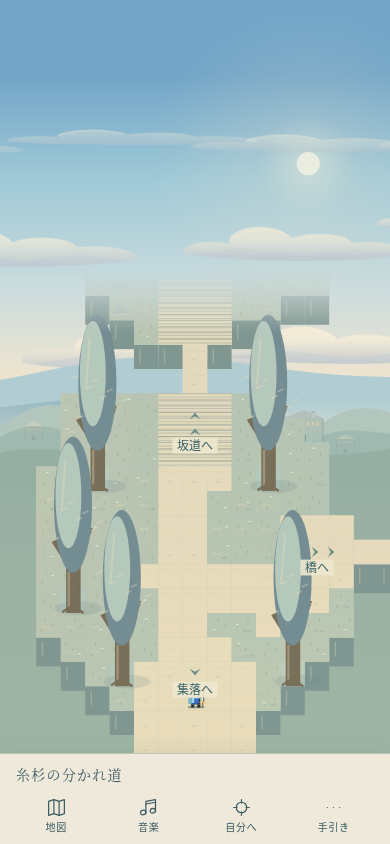
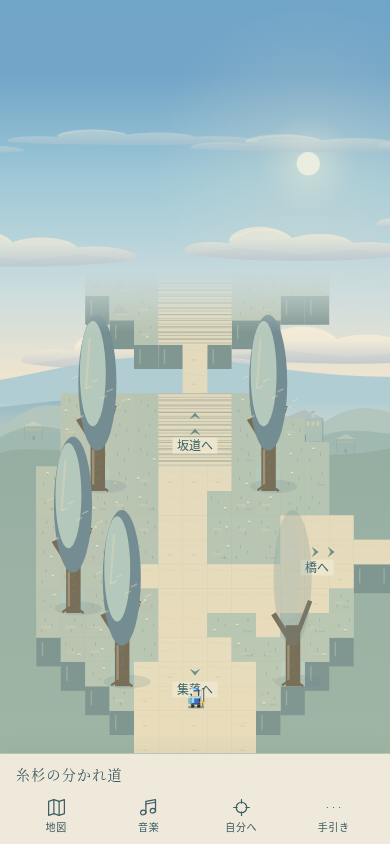
fix: 路面案内は人物の下に描き、到着後の見やすさを検査する

Changed region(s): [[0.7077, 0.5853, 0.8, 0.7701], [0.6769, 0.6777, 0.7077, 0.7085], [0.4923, 0.8009, 0.5231, 0.8318]]

diff --git a/fixed-screen-art.js b/fixed-screen-art.js
@@ -5,7 +5,7 @@ import {drawLandscapeFeet,drawLandscapeCanopies} from './landscape-objects.js';
 import {drawRegionalGroundDetail} from './regional-detail.js';
 import {drawSrpgUnit} from './sprite-srpg.js';
 import {drawVillager} from './sprite-villager.js';
-import {fixedLayout,fixedExitMarker} from './fixed-screens.js';
+import {fixedLayout,fixedExitMarker,FIXED_ROOMS} from './fixed-screens.js';
 
 export const FIXED_SOURCE=WEST_STUDIES.find(z=>z.key==='village');
 const P=(c,p,col)=>{c.fillStyle=col;c.beginPath();p.forEach(([x,y],i)=>i?c.lineTo(x,y):c.moveTo(x,y));c.closePath();c.fill();};
@@ -47,7 +47,7 @@ function background(c,room,w,h,layout,time){
  // The distant valley remains separate from the connected walking ground.
  const mist=c.createLinearGradient(0,horizon,0,h);mist.addColorStop(0,'#d9e1ce22');mist.addColorStop(1,'#c4d1b455');R(c,0,horizon,w,h-horizon,mist);
 }
-function terrain(c,room,hero,screen,time,{destination=null,offsetX=0,offsetY=0}={}){
+function terrain(c,room,hero,screen,time,{destination=null,offsetX=0,offsetY=0,guides=false}={}){
  const {w,h}=screen,l=fixedLayout(w,h),{sx,sy,proxy,trees}=materialWorld(room),s=l.scale;
  const left=Math.max(0,Math.floor((-64-offsetX/s)/32)),right=Math.min(14,Math.ceil((544-offsetX/s)/32)),top=Math.max(0,Math.floor((-128-offsetY/s)/32)),bottom=Math.min(14,Math.ceil((544-offsetY/s)/32));
  c.save();c.translate(offsetX,offsetY);
@@ -73,25 +73,26 @@ function terrain(c,room,hero,screen,time,{destination=null,offsetX=0,offsetY=0}=
  for(let y=top;y<=bottom;y++)for(let x=left;x<=right;x++)if(room.tileAt(x,y)==='w'){R(c,x*32+5,y*32+15+Math.sin(time/1600+x)*2,17,1,'#dbe6db88');}
  if(room.house?.landmark){R(c,6*32,5*32,5*32,4,'#e1dcc2');for(let i=0;i<4;i++)R(c,(6+i)*32,5*32+4,2,24,'#b7c5af');}
  if(room.returnStone){const {x,y}=room.returnStone;c.strokeStyle='#f1e6c5';c.lineWidth=3;c.beginPath();c.ellipse((x+.5)*32,(y+.5)*32,20,10,0,0,Math.PI*2);c.stroke();P(c,[[x*32+16,y*32+7],[x*32+22,y*32+16],[x*32+16,y*32+23],[x*32+10,y*32+16]],'#77a7ae');c.font=`${Math.max(14,11/s)}px system-ui`;c.textAlign='center';c.fillStyle='#3e646d';c.fillText('帰りの道標',(x+.5)*32,(y+1.3)*32);}
+ if(guides)drawExitStones(c,room,l.scale);
  drawLandscapeFeet(c,trees,{left:0,right:14,top:0,bottom:14});
  const objects=room.npcs.map(n=>({y:n.y+.5,paint:()=>drawVillager(c,n.x*32,n.y*32,n.color)}));
  if(room.house)objects.push({y:room.house.y+room.house.h,paint:()=>{drawFixedHouse(c,room.house);if(!room.house.landmark){c.strokeStyle='#8c9e92';c.lineWidth=1;c.beginPath();c.moveTo(2*32,8*32);c.lineTo(5.5*32,8*32);c.stroke();for(let i=0;i<4;i++)R(c,(2.2+i*.7)*32,8*32,14,19,['#b8c9c3','#dfc9ab','#a7bac0'][i%3]);}}});
  if(hero)objects.push({y:hero.py+.7,paint:()=>{c.save();c.beginPath();c.rect(0,0,480,480);c.clip();c.translate(0,hero.moving&&time!==0?-Math.abs(Math.sin(hero.stride*9))*1.5:0);drawSrpgUnit(c,{x:hero.px,y:hero.py,team:'ally',acted:false,type:'sword'});R(c,hero.px*32+8,hero.py*32+13,15,3,'#b8d9dc');R(c,hero.px*32+7,hero.py*32+16,5,7,'#7dbac5');c.restore();}});
- objects.sort((a,b)=>a.y-b.y);objects.forEach(o=>o.paint());drawLandscapeCanopies(c,trees,{left:0,right:14,top:0,bottom:14},hero||{px:-100,py:-100});
+ objects.sort((a,b)=>a.y-b.y);objects.forEach(o=>o.paint());drawLandscapeCanopies(c,guides?{...trees,npcs:[...trees.npcs,...Object.keys(room.connections).map(fixedExitMarker)]}:trees,{left:0,right:14,top:0,bottom:14},hero||{px:-100,py:-100});
  if(destination){c.strokeStyle='#fff1c5';c.lineWidth=2;c.beginPath();c.ellipse((destination.x+.5)*32,(destination.y+.5)*32,10,6,0,0,Math.PI*2);c.stroke();}
  // A small edge gap reads as the continuing road, without a development HUD.
  c.restore();c.restore();
 }
 
 // Low road stones and direction plaques belong to the walkable ground.
-function drawExitStones(c,room,l,ox,oy,rooms){
- c.save();c.translate(l.x+ox,l.y+oy);c.scale(l.scale,l.scale);
+function drawExitStones(c,room,scale){
+ c.save();
  for(const [d,id] of Object.entries(room.connections)){
   const m=fixedExitMarker(d),a=d==='N'?-Math.PI/2:d==='S'?Math.PI/2:d==='W'?Math.PI:0;
   c.save();c.translate((m.x+.5)*32,(m.y+.5)*32);c.rotate(a);
   for(const step of [0,21])P(c,[[step-7,-7],[step+2,0],[step-7,7],[step-3,0]],'#698d87');
   c.restore();
-  const text=rooms.find(r=>r.id===id)?.chartName||'',font=Math.max(14,12/l.scale),x=(m.x+.5)*32,y=(m.y+.5)*32+font+10;
+  const text=FIXED_ROOMS.find(r=>r.id===id)?.chartName||'',font=Math.max(14,12/scale),x=(m.x+.5)*32,y=(m.y+.5)*32+font+10;
   c.font=`${font}px system-ui`;c.textAlign='center';const w=c.measureText(text+'へ').width+12;
   R(c,x-w/2,y-font,w,font+5,'#eee6cded');c.fillStyle='#3b6468';c.fillText(text+'へ',x,y);
  }
@@ -113,7 +114,7 @@ export function drawFixedRoom(c,room,hero,screen,time,{destination=null,rooms=[r
  for(const r of [...rooms.filter(r=>r.id!==room.id),room]){if(!visible.has(r.id))continue;const ox=(r.col-cx)*stride,oy=(r.row-cy)*stride;
   c.save();c.beginPath();c.rect(l.x+ox,l.y+oy-128*l.scale,l.width,l.height+128*l.scale);c.clip();
   const person=transition&&[room.id,transition.to.id].includes(r.id)?transitionTraveller(room,transition,r,p):r.id===room.id?hero:null;
-  terrain(c,r,person,screen,time,{offsetX:ox,offsetY:oy,destination:r===room?destination:null});if(r.id===room.id)drawExitStones(c,r,l,ox,oy,rooms);c.restore();
+  terrain(c,r,person,screen,time,{offsetX:ox,offsetY:oy,destination:r===room?destination:null,guides:r.id===room.id});c.restore();
  }
  c.restore();
  c.save();c.globalCompositeOperation='destination-in';const fog=c.createLinearGradient(0,l.y-128*l.scale,0,l.y-48*l.scale);fog.addColorStop(0,'#0000');fog.addColorStop(1,'#000');c.fillStyle=fog;c.fillRect(0,0,screen.w,screen.h);c.restore();
